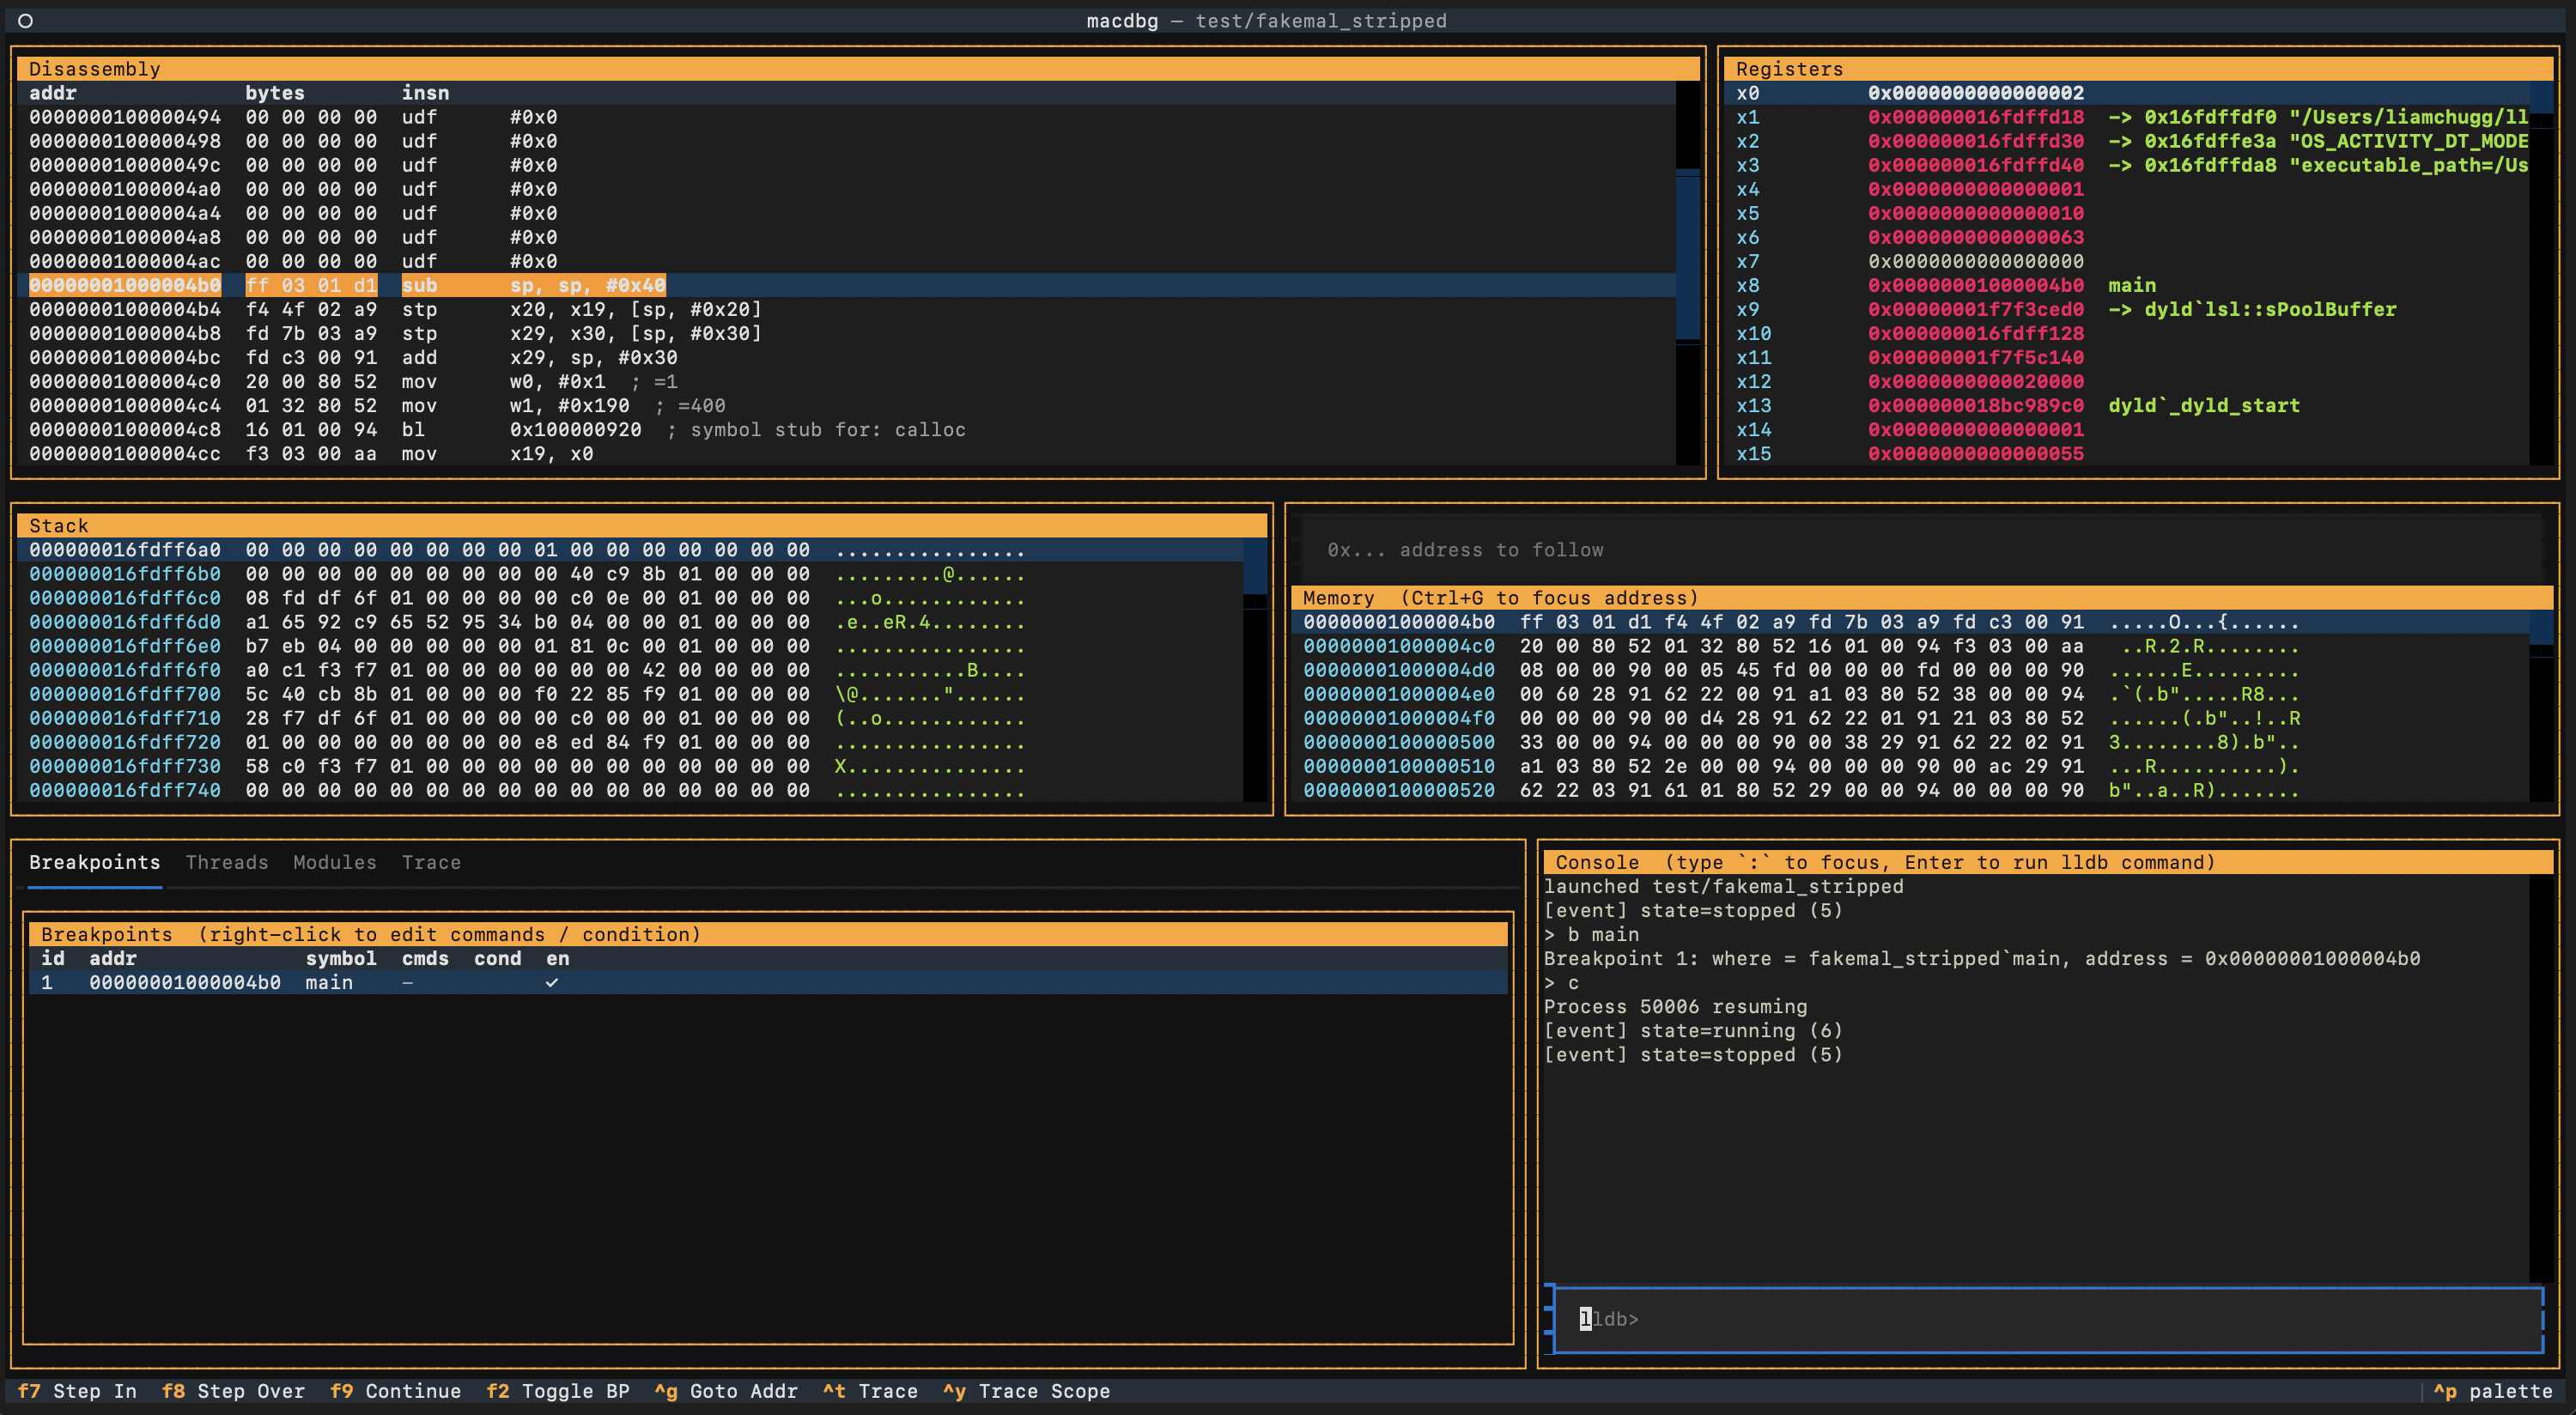
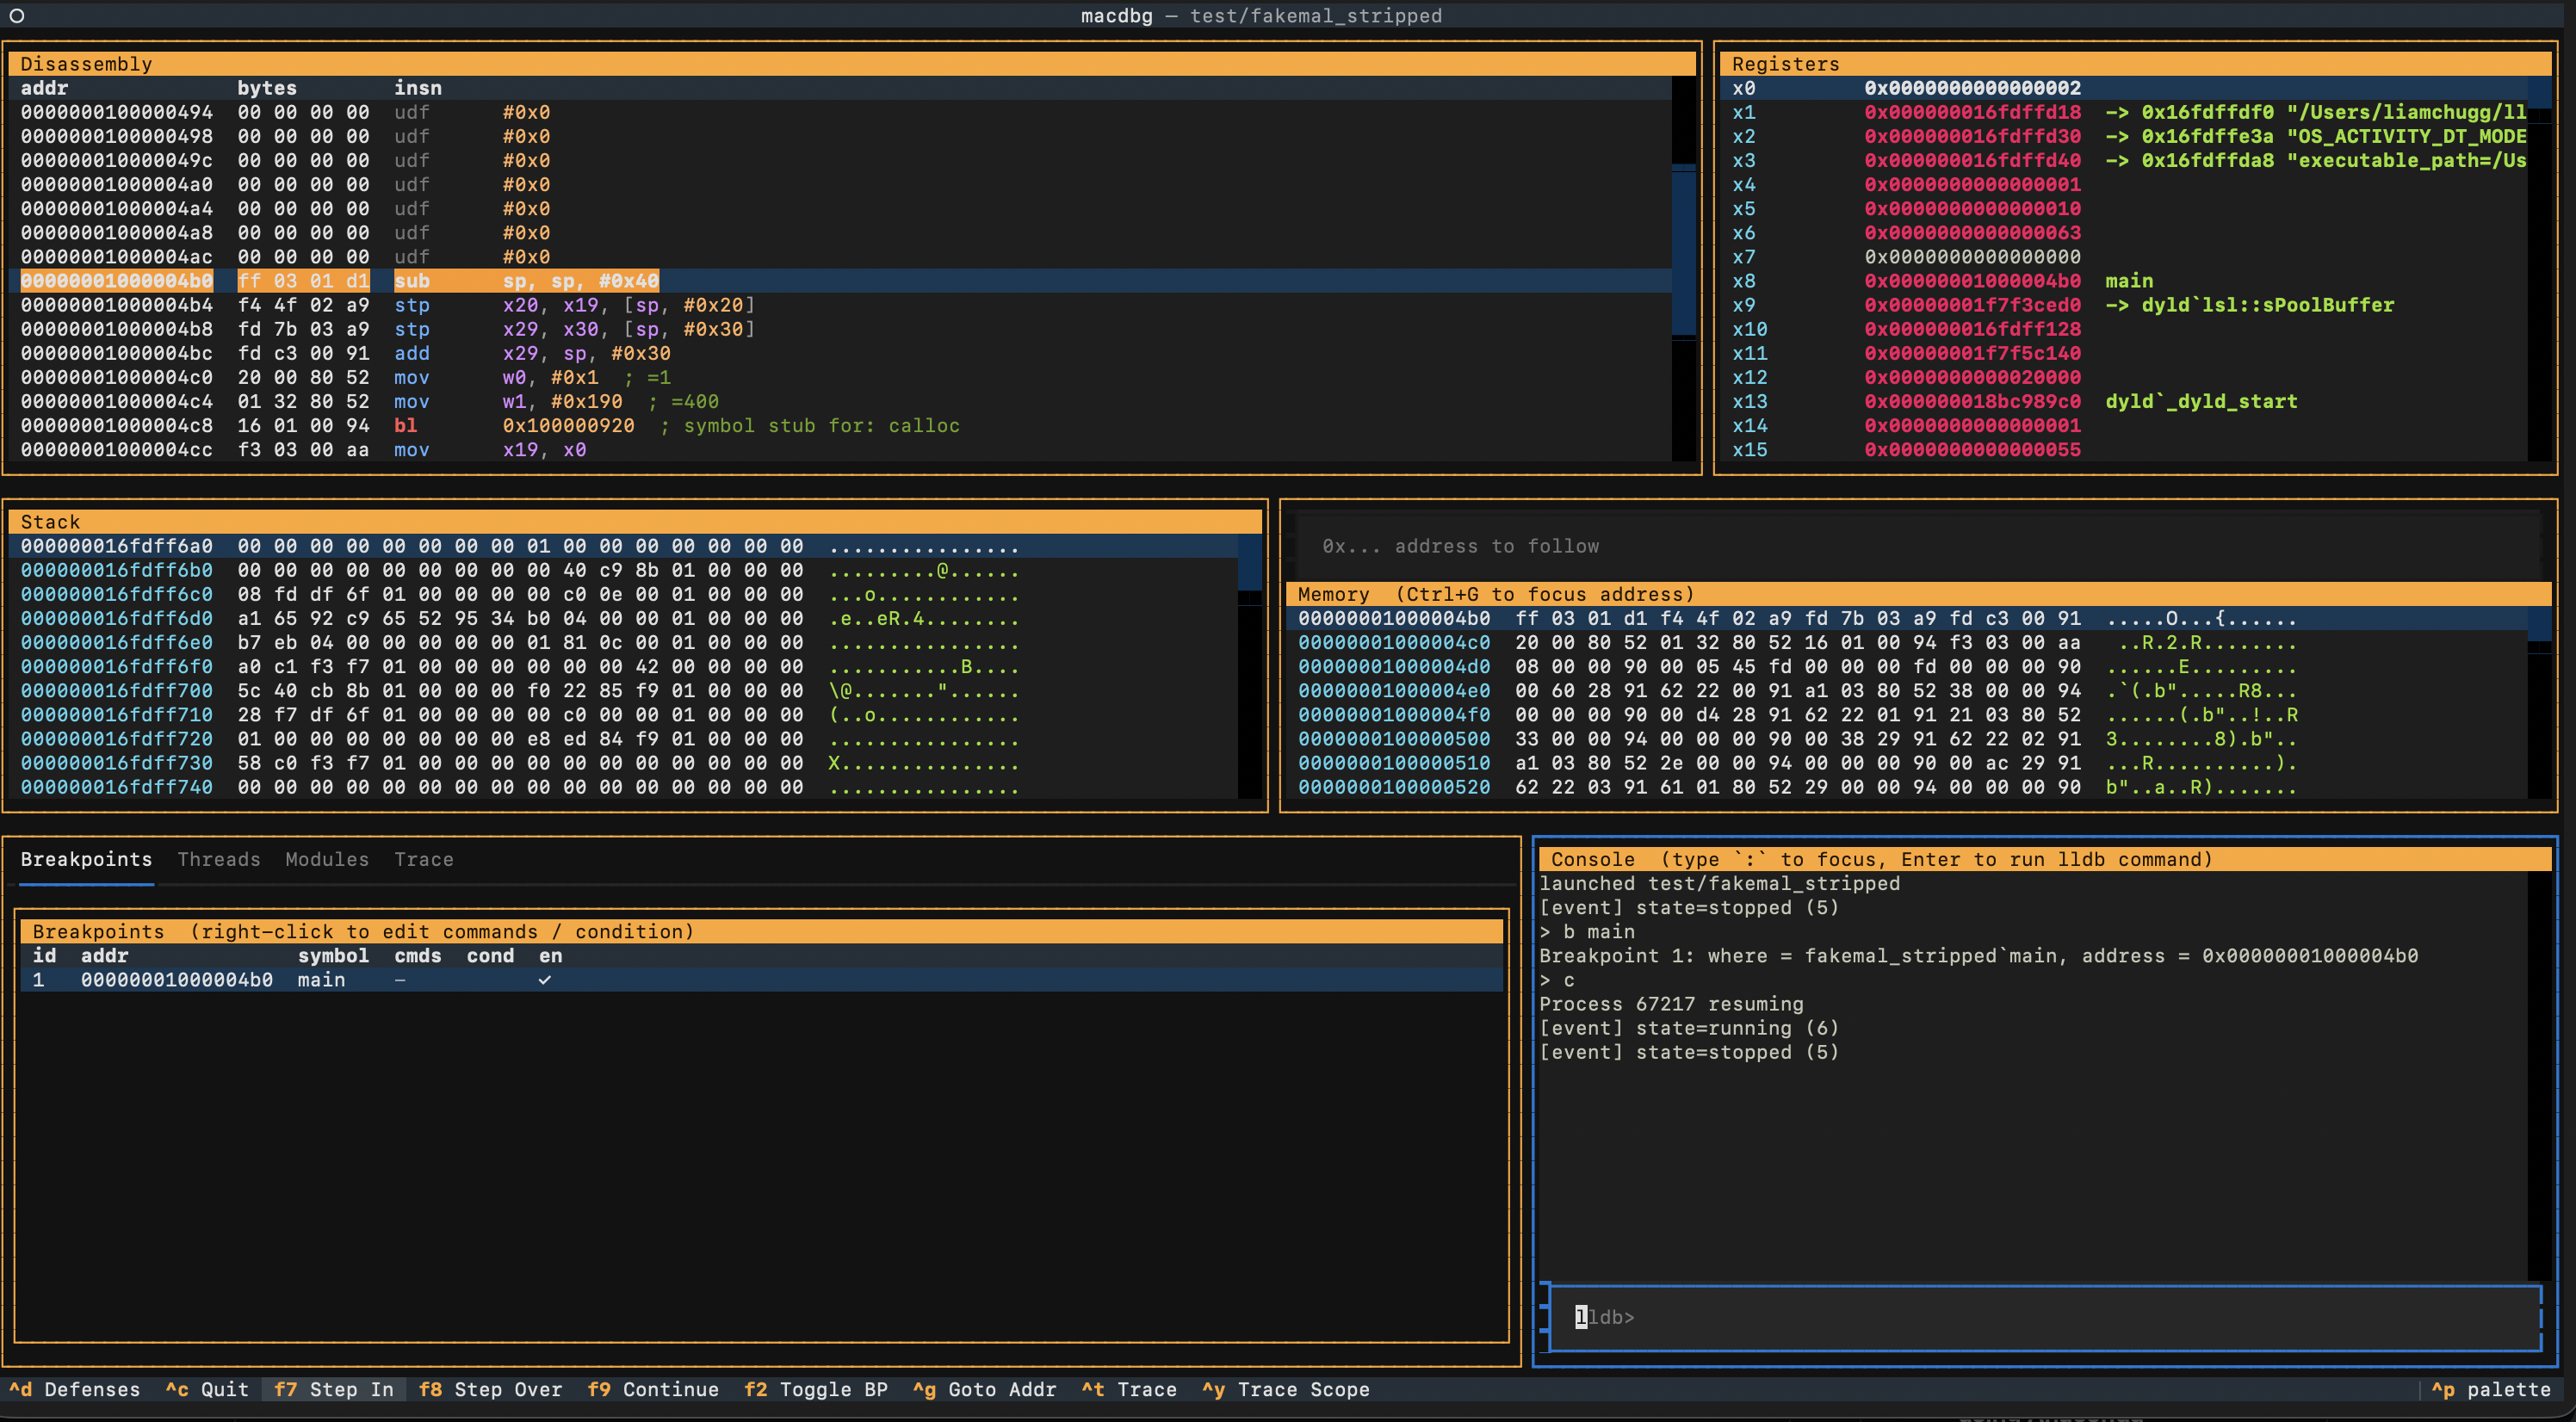
Disasm syntax highlighting; refresh main screenshot

Changed region(s): [[0.0, 0.0, 1.0, 1.0]]

diff --git a/macdbg/ui/syntax.py b/macdbg/ui/syntax.py
@@ -1,0 +1,116 @@
+from __future__ import annotations
+
+import re
+from typing import Tuple
+
+from rich.text import Text
+
+
+COLOR_CFLOW = "bold #ff5555"
+COLOR_DATA = "#5fafff"
+COLOR_TRAP = "#767676"
+COLOR_REG = "#d787ff"
+COLOR_IMM = "#ffaf5f"
+COLOR_HEX = "#ffaf5f"
+COLOR_SYM = "#ffaf5f"
+COLOR_WIDTH = "white"
+COLOR_SHIFT = "#5fafff"
+
+_CFLOW = {
+    "bl", "blr", "br", "b", "ret", "eret", "retab", "retaa",
+    "cbz", "cbnz", "tbz", "tbnz", "svc", "hvc", "smc",
+    "blraa", "blrab", "blraaz", "blrabz", "braa", "brab", "braaz", "brabz",
+}
+_TRAP = {"brk", "hlt", "udf", "nop"}
+_DATA_PREFIXES = ("ldr", "str", "ldp", "stp", "ldur", "stur", "ldnp", "stnp",
+                  "ldar", "stlr", "ldax", "stlx", "ldxr", "stxr", "ldapr")
+_DATA = {
+    "mov", "movz", "movk", "movn", "mvn",
+    "add", "adds", "sub", "subs", "neg", "negs", "adc", "sbc", "adcs", "sbcs",
+    "and", "ands", "orr", "orn", "eor", "eon", "bic", "bics",
+    "cmp", "cmn", "tst", "teq", "ccmp", "ccmn", "fcmp", "fcmpe",
+    "mul", "madd", "msub", "smull", "umull", "sdiv", "udiv",
+    "lsl", "lsr", "asr", "ror", "sbfx", "ubfx", "bfi", "bfxil",
+    "adr", "adrp",
+    "csel", "csinc", "csinv", "cset", "csetm",
+    "extr", "rev", "rev16", "rev32", "clz", "cls",
+    "fmov", "fadd", "fsub", "fmul", "fdiv",
+}
+
+
+def mnemonic_style(mnemonic: str) -> str:
+    m = mnemonic.strip().lower()
+    if not m:
+        return "white"
+    if m in _CFLOW or m.startswith("b."):
+        return COLOR_CFLOW
+    if m in _TRAP:
+        return COLOR_TRAP
+    if m in _DATA:
+        return COLOR_DATA
+    for p in _DATA_PREFIXES:
+        if m.startswith(p):
+            return COLOR_DATA
+    return "white"
+
+
+_REG_BASE = (
+    r"(?:[xw](?:[12]?\d|3[01])|[sdqvhb](?:[12]?\d|3[01])|sp|xzr|wzr|lr|fp|pc)"
+)
+_REG_RE = re.compile(_REG_BASE, re.IGNORECASE)
+_REG_LANE_RE = re.compile(_REG_BASE + r"(\.[0-9a-zA-Z]+)?", re.IGNORECASE)
+_SHIFT_KW = {"lsl", "lsr", "asr", "ror", "uxtb", "uxth", "uxtw", "uxtx",
+             "sxtb", "sxth", "sxtw", "sxtx", "msl"}
+
+_TOKEN_RE = re.compile(
+    r"(?P<ws>\s+)"
+    r"|(?P<imm>#-?(?:0x[0-9a-fA-F]+|\d+))"
+    r"|(?P<hex>0x[0-9a-fA-F]+)"
+    r"|(?P<ident>[A-Za-z_][A-Za-z0-9_.$@]*)"
+    r"|(?P<punct>[\[\](){},!])"
+    r"|(?P<other>.)"
+)
+
+_REG_COLOR = COLOR_REG
+_IMM_COLOR = COLOR_IMM
+_HEX_COLOR = COLOR_HEX
+_SYM_COLOR = COLOR_SYM
+_SHIFT_COLOR = COLOR_SHIFT
+
+
+def style_operands(operands: str) -> Text:
+    if not operands:
+        return Text("")
+    out = Text()
+    for m in _TOKEN_RE.finditer(operands):
+        tok = m.group(0)
+        kind = m.lastgroup
+        if kind == "ws":
+            out.append(tok)
+        elif kind == "imm":
+            out.append(tok, style=_IMM_COLOR)
+        elif kind == "hex":
+            out.append(tok, style=_HEX_COLOR)
+        elif kind == "ident":
+            low = tok.lower()
+            lane = _REG_LANE_RE.fullmatch(tok)
+            if lane and _REG_RE.fullmatch(lane.group(0).split(".", 1)[0]):
+                base_end = lane.end() - len(lane.group(1) or "")
+                out.append(tok[:base_end - lane.start()], style=_REG_COLOR)
+                if lane.group(1):
+                    out.append(lane.group(1), style=COLOR_WIDTH)
+            elif low in _SHIFT_KW:
+                out.append(tok, style=_SHIFT_COLOR)
+            else:
+                out.append(tok, style=_SYM_COLOR)
+        elif kind == "punct":
+            out.append(tok, style="dim")
+        else:
+            out.append(tok)
+    return out
+
+
+def style_disasm_line(mnemonic: str, operands: str) -> Tuple[Text, Text]:
+    mn = Text("{:<8}".format(mnemonic), style=mnemonic_style(mnemonic))
+    op = style_operands(operands)
+    return mn, op

diff --git a/macdbg/ui/panes.py b/macdbg/ui/panes.py
@@ -11,6 +11,7 @@ from textual.widgets import DataTable, Input, RichLog, Static
 from ..core.disasm import DisasmRow, format_bytes
 from ..core.memory import hexdump_rows
 from ..core.registers import RegRow
+from .syntax import style_disasm_line
 
 
 class RightClickTable(DataTable):
@@ -56,12 +57,15 @@ class DisasmPane(Vertical):
         for r in rows:
             addr = Text("{:016x}".format(r.addr))
             bytez = Text(format_bytes(r.raw))
-            insn = Text("{:<8} {}".format(r.mnemonic, r.operands))
+            mn, op = style_disasm_line(r.mnemonic, r.operands)
+            insn = Text.assemble(mn, " ", op)
             if r.comment:
-                insn.append("  ; " + r.comment, style="dim")
+                insn.append("  ; " + r.comment, style="dim green")
             if r.is_pc:
                 addr.stylize("bold black on yellow")
                 bytez.stylize("black on yellow")
+                insn = Text("{:<8} {}".format(r.mnemonic, r.operands) + (
+                    "  ; " + r.comment if r.comment else ""))
                 insn.stylize("bold black on yellow")
             key = self.table.add_row(addr, bytez, insn)
             if r.is_pc: